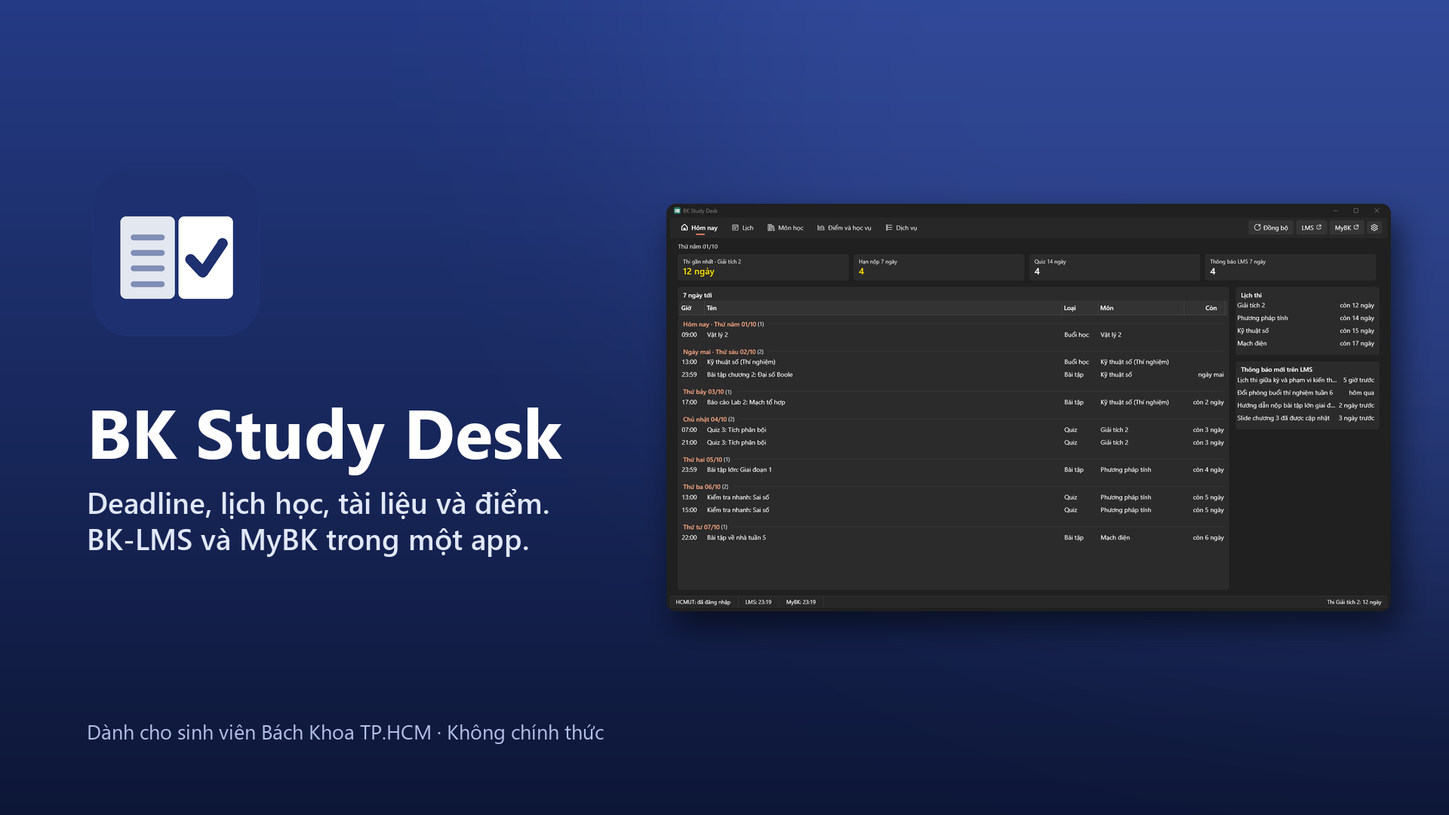
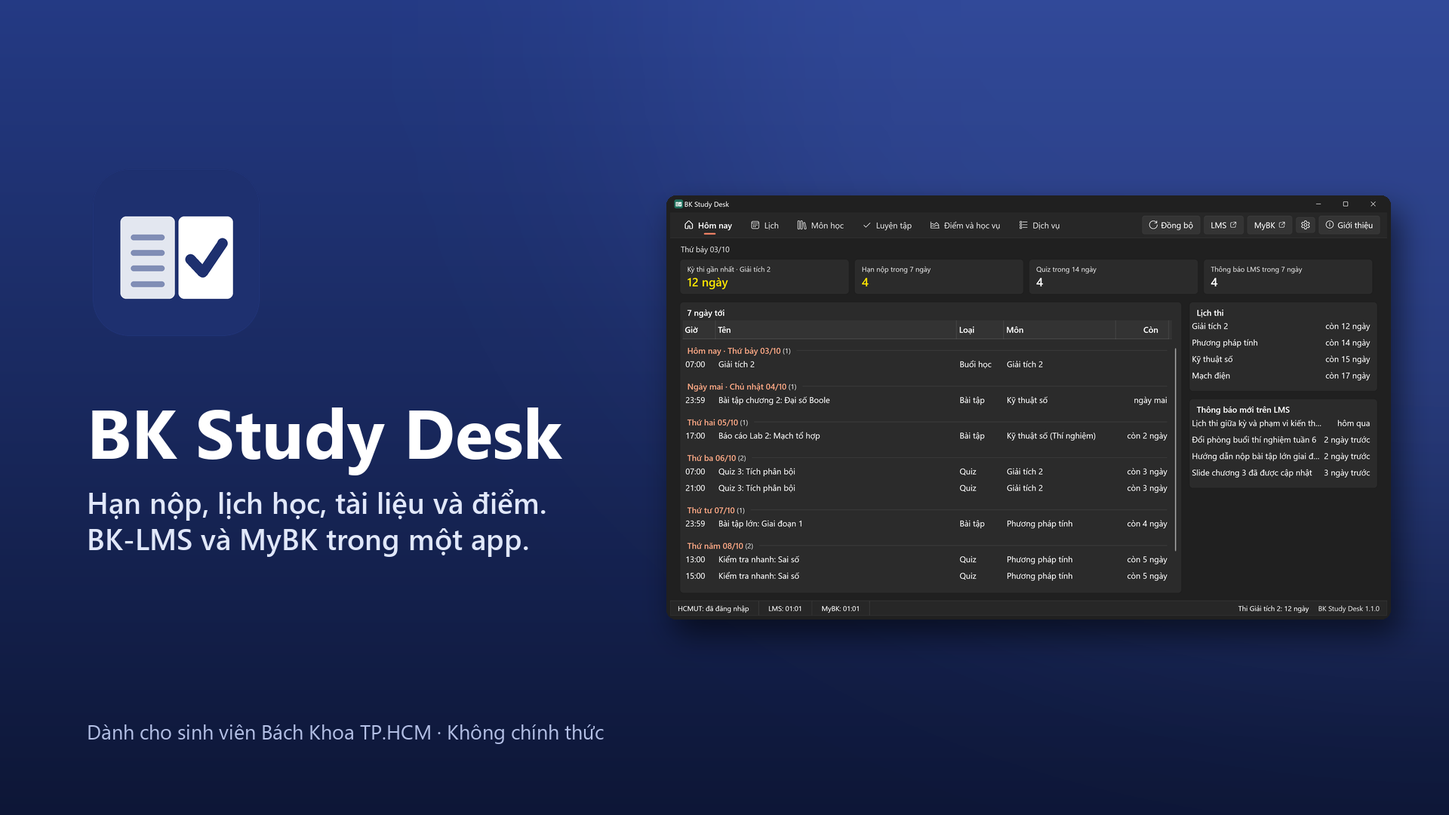
docs: cài từ Microsoft Store, ảnh mới, chữ theo chuẩn văn phong

diff --git a/src/ui/src/pages/Soan.svelte b/src/ui/src/pages/Soan.svelte
@@ -328,7 +328,7 @@
 					bind:value={raw}
 					oninput={() => (rawImages = {})}
 					rows={8}
-					placeholder={'Dán khối Markdown AI trả về, hoặc nội dung file…\n\n### Câu 1\nĐề bài\n- [x] đúng\n- [ ] sai\n> lời giải'}
+					placeholder={'Dán khối Markdown AI trả về hoặc nội dung file…\n\n### Câu 1\nĐề bài\n- [x] đúng\n- [ ] sai\n> lời giải'}
 					class="font-mono text-xs"
 				/>
 				<div class="flex gap-2">
@@ -446,8 +446,8 @@
 				<ol class="list-decimal pl-5">
 					<li>Sao chép prompt, dán vào ChatGPT / Claude / Gemini{mode === 'soan' ? ', kèm slide hoặc đề (PDF, ảnh)' : ''}.</li>
 					{#if mode === 'giai-thich'}<li>Đọc lời giải thích của AI.</li>{:else}<li>
-							AI trả về một khối Markdown: copy hết, sang tab <a class="underline" href={`#soan/nhap/${scopePath(scope)}`}>Nhập</a>, dán vào
-							rồi chọn Nhập. Có lỗi thì dán lỗi lại cho AI sửa.
+							AI trả về một khối Markdown: sao chép hết, sang tab <a class="underline" href={`#soan/nhap/${scopePath(scope)}`}>Nhập</a>, dán
+							vào rồi chọn Nhập. Có lỗi thì dán lỗi lại cho AI sửa.
 						</li>{/if}
 				</ol>
 				{#if mode === 'soan' || mode === 'tuong-tu'}

diff --git a/src/ui/src/pages/Practice.svelte b/src/ui/src/pages/Practice.svelte
@@ -122,7 +122,7 @@
 				{ label: 'Quiz LMS đã lưu', value: Study.quizInfo.length, note: 'kho quiz', href: '#kho-quiz' },
 			]}
 		/>
-		<Panel title="Các môn">
+		<Panel title="Môn học">
 			{#each Study.manifest.courses as c (c.id)}
 				{@const s = Progress.courseStats(c.id)}
 				<DataRow
@@ -160,7 +160,7 @@
 					menu={x.pack ? () => [{ label: 'Gỡ quiz này', run: () => removePack(x.pack!.id, x.pack!.title) }] : undefined}
 				/>
 			{:else}
-				<DataRow title="Chưa có" sub="Soạn quiz của bạn, hoặc Nhập file… (.md, .zip, .json)" dim />
+				<DataRow title="Chưa có" sub="Soạn quiz của bạn hoặc Nhập file… (.md, .zip, .json)" dim />
 			{/each}
 		</Panel>
 		<input bind:this={picker} type="file" accept=".md,.zip,.json" class="hidden" onchange={importFile} />

diff --git a/src/ui/src/pages/QuizArchive.svelte b/src/ui/src/pages/QuizArchive.svelte
@@ -28,7 +28,7 @@
 			? on
 				? 'Đã bật: quiz nộp xong sẽ được lưu ở lần đồng bộ LMS tới.'
 				: 'Đã tắt: app không lưu quiz mới. Quiz đã lưu vẫn giữ.'
-			: 'Không đổi được cài đặt.';
+			: 'Không đổi được cài đặt. Thử lại.';
 	}
 	const groups = $derived.by(() => {
 		const m = new Map<string, QuizInfo[]>();

diff --git a/PRIVACY.md b/PRIVACY.md
@@ -13,7 +13,7 @@ App chỉ kết nối tới các trang của HCMUT mà bạn vốn dùng:
 - `lms.hcmut.edu.vn`: BK-LMS;
 - `mybk.hcmut.edu.vn`: MyBK;
 - các dịch vụ khác của trường mà bạn tự mở;
-- `github.com` / `api.github.com`: **chỉ khi bạn cho phép** kiểm tra bản mới (Cài đặt → Cập nhật; mặc định chưa kiểm tra cho tới khi bạn chọn). App chỉ hỏi phiên bản mới nhất và tải gói cập nhật, không gửi thông tin tài khoản. Như mọi kết nối mạng, GitHub (máy chủ ở Mỹ) thấy địa chỉ IP của bạn, theo [chính sách của GitHub](https://docs.github.com/site-policy/privacy-policies/github-general-privacy-statement). Chọn "Không kiểm tra" thì app không gọi tới GitHub.
+- `github.com` / `api.github.com`: **chỉ khi bạn cho phép** kiểm tra bản mới (**Cài đặt** → **Cập nhật**; mặc định chưa kiểm tra cho tới khi bạn chọn). App chỉ hỏi phiên bản mới nhất và tải gói cập nhật, không gửi thông tin tài khoản. Như mọi kết nối mạng, GitHub (máy chủ ở Mỹ) thấy địa chỉ IP của bạn, theo [chính sách của GitHub](https://docs.github.com/site-policy/privacy-policies/github-general-privacy-statement). Chọn **Không kiểm tra** thì app không gọi tới GitHub.
 
 ## Dữ liệu lưu trên máy bạn
 
@@ -22,7 +22,7 @@ Sau khi bạn đăng nhập, app tải xuống và lưu **trên máy của bạn
 - tài liệu môn học bạn chọn tải (mặc định app không tự tải);
 - điểm, tiến độ chương trình đào tạo;
 - họ tên, MSSV, lớp (để hiển thị);
-- bản xem lại các quiz LMS **bạn đã nộp** (để ôn lại, tắt được trong Cài đặt; không đọc quiz đang làm);
+- bản xem lại quiz LMS **bạn đã nộp** (để ôn lại, tắt được trong Cài đặt; không đọc quiz đang làm);
 - quiz bạn tự soạn hoặc nhập, kết quả luyện tập, ghi chú.
 
 Những dữ liệu này nằm trong `%LOCALAPPDATA%\BKStudyDesk.Data`, dù bạn cài app vào thư mục nào. Lúc gỡ app bạn chọn xóa hay giữ.
@@ -31,7 +31,7 @@ Tài liệu môn học lưu ở thư mục bạn chọn, mặc định `Document
 
 App **không lưu** số CCCD, địa chỉ, số điện thoại, ngày sinh hay email cá nhân, kể cả khi MyBK trả về.
 
-App ghi nhật ký hoạt động vào `datapp.log` trên máy (tối đa khoảng 4 MB, tự xoay vòng) để bạn gửi kèm khi báo lỗi. Token, cookie, vé đăng nhập và email được che trước khi ghi; log có thể có tên môn, tên file, giờ đồng bộ. Bạn mở file này được ở **Cài đặt → Nhật ký hoạt động**.
+App ghi nhật ký hoạt động vào `data\app.log` trên máy (tối đa khoảng 4 MB, tự xoay vòng) để bạn gửi kèm khi báo lỗi. Token, cookie, vé đăng nhập và email được che trước khi ghi; log có thể có tên môn, tên file, giờ đồng bộ. Bạn mở file này được ở **Cài đặt** → **Nhật ký hoạt động**.
 
 **Thời gian lưu:** dữ liệu trên nằm trên máy tới khi bạn xóa (xem mục Xóa dữ liệu). Bản mới đồng bộ ghi đè bản cũ; app không gửi bản sao đi đâu.
 
@@ -51,20 +51,20 @@ Theo Điều 4 Luật 91/2025, bạn có quyền biết, xem, sửa, xóa dữ l
 
 ## Dữ liệu của người khác
 
-Dữ liệu tải về có thể có thông tin của người khác (tên giảng viên, bài đăng của bạn học trên diễn đàn LMS). Chỉ dùng cho việc học của bạn; không đăng lại, chia sẻ hay đưa vào quiz chia sẻ công khai (Điều 4 và Điều 7 Luật 91/2025). Quiz LMS đã lưu chỉ chia sẻ được sau khi quiz đóng và không kèm tên, MSSV.
+Dữ liệu tải xuống có thể có thông tin của người khác (tên giảng viên, bài đăng của bạn học trên diễn đàn LMS). Chỉ dùng cho việc học của bạn; không đăng lại, chia sẻ hay đưa vào quiz chia sẻ công khai (Điều 4 và Điều 7 Luật 91/2025). Quiz LMS đã lưu chỉ chia sẻ được sau khi quiz đóng và không kèm tên, MSSV.
 
 ## Đăng nhập và bảo mật
 
-- Mật khẩu chỉ được gõ trên trang SSO của trường, trong trình duyệt nhúng (WebView2). App không đọc mật khẩu. Nếu bạn chọn Lưu khi cửa sổ đăng nhập hỏi, WebView2 lưu mật khẩu (mã hóa trên máy) để tự điền lần sau.
+- Mật khẩu chỉ được gõ trên trang SSO của trường, trong trình duyệt nhúng (WebView2). App không đọc mật khẩu. Nếu bạn chọn **Lưu** khi cửa sổ đăng nhập hỏi, WebView2 lưu mật khẩu (mã hóa trên máy) để tự điền lần sau.
 - Cookie đăng nhập nằm trong profile WebView2, do WebView2 mã hóa.
 - Token BK-LMS được mã hóa bằng Windows DPAPI, chỉ tài khoản Windows của bạn giải mã được.
 - App chỉ **đọc** dữ liệu. App không nộp bài, không đăng ký hay hủy môn, không thanh toán, không làm quiz thay bạn.
 
 ## Xóa dữ liệu
 
-- Trong app: **Cài đặt → Đăng xuất** xóa token và cookie đăng nhập. Dữ liệu đã đồng bộ (lịch, điểm…) vẫn giữ để xem khi không có mạng.
+- Trong app: **Cài đặt** → **Đăng xuất** xóa token và cookie đăng nhập. Dữ liệu đã đồng bộ (lịch, điểm…) vẫn giữ để xem khi không có mạng.
 - Xóa hết dữ liệu app: thoát app rồi xóa thư mục `%LOCALAPPDATA%\BKStudyDesk.Data`, hoặc gỡ app như dưới.
-- Gỡ app: Cài đặt Windows → Ứng dụng → BK Study Desk → Gỡ cài đặt, tích "Xóa cả dữ liệu của app". Tài liệu đã tải trong thư mục bạn chọn vẫn còn, bạn tự xóa nếu muốn.
+- Gỡ app: Cài đặt Windows → Ứng dụng → BK Study Desk → Gỡ cài đặt, chọn ô **Xóa cả dữ liệu của app**. Tài liệu đã tải trong thư mục bạn chọn vẫn còn, bạn tự xóa nếu muốn.
 
 ## Liên hệ
 
@@ -81,7 +81,7 @@ BK Study Desk is an unofficial app made by an individual developer (xeroz369) fo
 - **Not stored:** ID card number, address, phone number, date of birth or personal email.
 - **Sign-in:** your password is typed only on the university SSO page and the app never reads it. If you choose Save when the sign-in window asks, WebView2 stores it encrypted on this PC for autofill. Cookies are encrypted by WebView2, and the LMS token is encrypted with Windows DPAPI.
 - **Read-only:** the app never submits, registers, pays or takes quizzes for you.
-- **Log:** activity log in `datapp.log` on your PC (about 4 MB max, rotated) for bug reports; tokens, cookies, sign-in tickets and emails are masked.
+- **Log:** activity log in `data\app.log` on your PC (about 4 MB max, rotated) for bug reports; tokens, cookies, sign-in tickets and emails are masked.
 - **Retention:** data stays on your PC until you delete it. Newer syncs overwrite older data.
 - **Roles and law:** applicable law is Vietnam's Personal Data Protection Law No. 91/2025/QH15 and Decree 356/2025/ND-CP (in force since 1 Jan 2026). HCMUT holds the source data; you use the app to view your own data on your own PC; the developer receives no data and, in the author's reading (not confirmed by any authority), is neither a controller nor a processor under Article 2.
 - **Your rights:** view everything in the app or the JSON files in `%LOCALAPPDATA%\BKStudyDesk.Data`; correct source data with the university; delete as below.

diff --git a/CHANGELOG.md b/CHANGELOG.md
@@ -4,6 +4,16 @@ Ghi các thay đổi đáng chú ý của BK Study Desk. Định dạng theo [Ke
 
 ## [Chưa phát hành]
 
+### Thay đổi
+
+- Chữ trên giao diện và tài liệu theo chuẩn văn phong `docs/van-phong.md`: "Sao chép" thay "Copy", "Chọn" thay "Bấm", "tải xuống" thay "tải về"; câu lỗi nói rõ cần làm gì.
+- Trang Luyện tập: mục "Các môn" đổi tên thành "Môn học".
+
+### Thêm
+
+- README và Wiki: hướng dẫn cài từ Microsoft Store, lưu ý kiểm tra số phiên bản vì bản Store phải chờ Microsoft duyệt.
+- Ảnh minh họa mới (dữ liệu demo) cho README, Wiki và trang Store.
+
 ## [1.1.0] - 2026-10-03
 
 ### Thêm
@@ -13,15 +23,15 @@ Ghi các thay đổi đáng chú ý của BK Study Desk. Định dạng theo [Ke
 - Thanh báo lỗi theo kiểu InfoBar của Windows: biểu tượng theo mức độ, câu dễ hiểu kèm cách xử lý, mục **Chi tiết** chứa chữ gốc của máy chủ (có nút **Sao chép**). Thanh trạng thái có biểu tượng lỗi cạnh LMS/MyBK.
 - Cửa sổ LMS/MyBK báo khi trang tải quá 10 giây, mất mạng, máy chủ lỗi hoặc phiên đăng nhập đã hết, kèm nút **Thử lại**.
 - Giữ phiên đăng nhập khi app đang mở: mỗi 60 phút ghé SSO một lần (tắt được trong Cài đặt). Phiên SSO của trường vẫn hết sau tối đa 8 giờ kể từ lúc đăng nhập.
-- **Cài đặt → Nhật ký hoạt động**: nút mở file log; bật ghi log chẩn đoán khi cần báo lỗi (tự tắt sau 7 ngày).
+- **Cài đặt** → **Nhật ký hoạt động**: nút mở file log; bật ghi log chẩn đoán khi cần báo lỗi (tự tắt sau 7 ngày).
 
 ### Thay đổi
 
-- Mặc định chỉ đọc môn của học kỳ này và không tự tải tài liệu. Muốn tải thì vào **Môn học** → **Tải tài liệu…** và chọn mục cần tải; bật lại tự tải trong Cài đặt nếu muốn.
+- Mặc định chỉ đọc môn của học kỳ này và không tự tải tài liệu. Muốn tải thì vào **Môn học**** → ****Tải tài liệu…** và chọn mục cần tải; bật lại tự tải trong Cài đặt nếu muốn.
 - Lần đầu đăng nhập, lịch, hạn nộp, quiz và điểm hiện ngay, không chờ tải tài liệu.
 - Đọc ít request hơn: thông báo diễn đàn chỉ lấy lớp học kỳ này; quiz không có hạn đóng chỉ kiểm tra ngày một lần; trang Môn học chỉ quét thư mục khi đang mở.
 - Giãn cách request tới LMS và MyBK. Máy chủ báo quá tải (HTTP 429/503) thì app chờ theo `Retry-After` rồi mới thử lại.
-- "Giữ đăng nhập khi tắt rồi mở lại app" giờ giữ tối đa 8 giờ, bằng giới hạn phiên của máy chủ trường (trước đây ghi 30 ngày nhưng máy chủ đã hủy phiên từ lâu).
+- **Giữ đăng nhập khi tắt rồi mở lại app** giờ giữ tối đa 8 giờ, bằng giới hạn phiên của máy chủ trường (trước đây ghi 30 ngày nhưng máy chủ đã hủy phiên từ lâu).
 - `data\config.json` chỉ lưu những gì bạn đổi so với mặc định.
 - Trang trống vì chưa có dữ liệu thì ghi rõ đang tải lần đầu, bị lỗi hay chưa đăng nhập.
 
@@ -32,7 +42,7 @@ Ghi các thay đổi đáng chú ý của BK Study Desk. Định dạng theo [Ke
 - Đồng bộ báo "Access denied" khi giao diện đang đọc dữ liệu đúng lúc đồng bộ ghi lại.
 - Cuộn chuột bị kẹt khi đi qua ô nhập hoặc bảng; tiêu đề cột "Điểm chữ", "Thang điểm" bị cắt; ngày và số ngày công tác xã hội sai định dạng.
 - Cửa sổ chính và cửa sổ đăng nhập tràn ra ngoài màn hình nhỏ.
-- Nút Cài đặt và Giới thiệu không phản hồi khi dùng trình đọc màn hình.
+- Nút **Cài đặt** và **Giới thiệu** không phản hồi khi dùng trình đọc màn hình.
 
 ### Bỏ
 
@@ -49,7 +59,7 @@ Ghi các thay đổi đáng chú ý của BK Study Desk. Định dạng theo [Ke
 ### Thêm
 
 - Bộ cài tiếng Việt: chọn thư mục cài, không cần quyền admin. Bộ gỡ hỏi giữ hay xóa dữ liệu app.
-- Tự cập nhật theo lựa chọn của bạn: báo khi có bản mới, tự cài khi tắt app, hoặc không kiểm tra.
+- Tự cập nhật theo lựa chọn của bạn: báo khi có bản mới, tự cài khi tắt app hoặc không kiểm tra.
 - Luyện tập: soạn quiz, nhờ AI soạn, nhập/xuất Markdown, ôn quiz LMS đã nộp, thi thử.
 - Lấy dữ liệu từ bản zip cũ trong Cài đặt.
 
@@ -64,7 +74,7 @@ Ghi các thay đổi đáng chú ý của BK Study Desk. Định dạng theo [Ke
 
 ### Bảo mật
 
-- Vá một số lỗi bảo mật nhỏ (giới hạn điều hướng của WebView ẩn, không chạy file tải về, giới hạn kích thước file).
+- Vá một số lỗi bảo mật nhỏ (giới hạn điều hướng của WebView ẩn, không chạy file tải xuống, giới hạn kích thước file).
 
 Các bản trước: xem [Releases](https://github.com/xeroz369/bk-study-desk/releases).
 

diff --git a/wiki/Cài-đặt.md b/wiki/Cài-đặt.md
@@ -6,10 +6,12 @@
 
 Mở [BK Study Desk trên Microsoft Store](https://apps.microsoft.com/detail/9NX0KRZRR850), chọn **Tải**. Gói do Microsoft ký nên không có cảnh báo SmartScreen; Store tự cập nhật app. Bản Store chỉ có gói x64 (máy ARM vẫn chạy được qua giả lập của Windows).
 
+**Kiểm tra số phiên bản trước khi cài.** Mỗi bản mới phải chờ Microsoft duyệt (thường vài giờ, có khi tới 3 ngày làm việc), nên bản trên Store có thể chậm hơn bản mới nhất trên GitHub. So số phiên bản ở trang Store với [Releases](https://github.com/xeroz369/bk-study-desk/releases/latest); cần bản mới ngay thì dùng bộ cài GitHub.
+
 ## Cách 2: bộ cài trên GitHub
 
 1. Vào [Releases](https://github.com/xeroz369/bk-study-desk/releases), tải `BKStudyDesk-x.y.z-Setup-x64.exe`. Máy chip ARM (Surface Pro X, Snapdragon) tải bản `-Setup-arm64.exe`.
-2. Mở file. Nếu Windows hiện **"Windows đã bảo vệ máy tính của bạn"**: chọn **Thông tin thêm** → **Vẫn chạy**. Cảnh báo này có vì bộ cài chưa có chữ ký số; chỉ hiện một lần lúc cài.
+2. Mở file. Nếu Windows hiện **"Windows đã bảo vệ máy tính của bạn"**: chọn **Thông tin thêm**** → ****Vẫn chạy**. Cảnh báo này có vì bộ cài chưa có chữ ký số; chỉ hiện một lần lúc cài.
 3. Chọn thư mục cài (mặc định trong tài khoản của bạn; đổi sang ổ D: được), chọn **Cài đặt**. Không cần quyền admin.
 4. Cài xong app tự mở. Lối tắt có ở Desktop và Start menu.
 
@@ -25,7 +27,7 @@ Hai cách cài là hai bản riêng, dữ liệu không dùng chung. Chỉ nên 
 
 ## Đang dùng bản zip cũ?
 
-Cài bản mới, rồi vào **Cài đặt → Cập nhật → Lấy dữ liệu từ bản zip…**, chọn thư mục bản zip. App chép đăng nhập LMS, kết quả luyện tập, quiz và cài đặt sang, rồi khởi động lại. Sau đó đăng nhập HCMUT lại một lần. Xong thì xóa thư mục bản zip được.
+Cài bản mới, rồi vào **Cài đặt** → **Cập nhật** → **Lấy dữ liệu từ bản zip…**, chọn thư mục bản zip. App chép đăng nhập LMS, kết quả luyện tập, quiz và cài đặt sang, rồi khởi động lại. Sau đó đăng nhập HCMUT lại một lần. Xong thì xóa thư mục bản zip được.
 
 ## Kiểm tra file tải xuống (không bắt buộc)
 

diff --git a/wiki/Câu-hỏi-thường-gặp.md b/wiki/Câu-hỏi-thường-gặp.md
@@ -1,7 +1,7 @@
 # Câu hỏi thường gặp
 
 **Windows báo "Windows đã bảo vệ máy tính của bạn".**
-Bộ cài trên GitHub chưa có chữ ký số (chứng chỉ tốn phí hằng năm). Cài từ [Microsoft Store](https://apps.microsoft.com/detail/9NX0KRZRR850) thì không có cảnh báo này. Dùng bộ cài GitHub thì chọn **Thông tin thêm → Vẫn chạy**. Chỉ hiện một lần lúc cài; cập nhật sau không bị hỏi lại. Muốn chắc file không bị sửa, so mã SHA-256 như ở [[Cài đặt]].
+Bộ cài trên GitHub chưa có chữ ký số (chứng chỉ tốn phí hằng năm). Cài từ [Microsoft Store](https://apps.microsoft.com/detail/9NX0KRZRR850) thì không có cảnh báo này. Dùng bộ cài GitHub thì chọn **Thông tin thêm** → **Vẫn chạy**. Chỉ hiện một lần lúc cài; cập nhật sau không bị hỏi lại. Muốn chắc file không bị sửa, so mã SHA-256 như ở [[Cài đặt]].
 
 **Mở LMS/MyBK trong app thấy "session timed out" hay bắt đăng nhập lại.**
 Phiên đăng nhập trên server trường hết hạn sau vài giờ, dù app vẫn nhớ. App tự đi qua trang đăng nhập SSO; nếu SSO cũng hết phiên thì bạn đăng nhập lại một lần.
@@ -13,7 +13,7 @@ Phiên đăng nhập trên server trường hết hạn sau vài giờ, dù app 
 Không. App chỉ gọi API **đọc**. Không nộp bài, không đăng ký/hủy môn, không thanh toán, không làm quiz thay bạn.
 
 **App có gửi dữ liệu của tôi đi đâu không?**
-Không có server riêng, không analytics. App chỉ nói chuyện với server của trường, và với GitHub để hỏi bản mới nếu bạn cho phép. Xem [[Bảo mật và quyền riêng tư]].
+Không có server riêng, không analytics. App chỉ nói chuyện với server của trường và với GitHub để hỏi bản mới nếu bạn cho phép. Xem [[Bảo mật và quyền riêng tư]].
 
 **Có bản cho macOS, Linux không?**
 Chưa. Bản đa nền tảng đang làm; khi ổn định sẽ có ở trang Releases.

diff --git a/wiki/Cập-nhật.md b/wiki/Cập-nhật.md
@@ -1,6 +1,6 @@
 # Cập nhật
 
-**Cài từ Microsoft Store:** Store tự cập nhật app, không cần chỉnh gì trong app. Phần dưới dành cho bản cài từ GitHub.
+**Cài từ Microsoft Store:** Store tự cập nhật app, không cần chỉnh gì trong app. Bản mới lên Store sau khi Microsoft duyệt (thường vài giờ, có khi tới 3 ngày làm việc), nên có thể chậm hơn bản trên GitHub một chút. Phần dưới dành cho bản cài từ GitHub.
 
 Lần mở đầu, app hỏi bạn muốn làm gì khi có bản mới. **Chưa chọn thì app không gọi mạng để kiểm tra.**
 
@@ -8,9 +8,9 @@ Lần mở đầu, app hỏi bạn muốn làm gì khi có bản mới. **Chưa 
 |---|---|
 | **Báo khi có bản mới** (khuyên dùng) | Mỗi ngày hỏi GitHub một lần. Có bản mới thì báo ở thanh dưới cùng; bạn chọn mới tải và cài. |
 | **Tự tải và cài khi tắt app** | Tải trong nền (hoãn nếu đang bật Tiết kiệm pin), cài lúc bạn thoát hẳn app. |
-| **Không kiểm tra** | Không bao giờ hỏi GitHub. Muốn cập nhật thì vào **Cài đặt → Cập nhật → Kiểm tra cập nhật**. |
+| **Không kiểm tra** | Không bao giờ hỏi GitHub. Muốn cập nhật thì vào **Cài đặt** → **Cập nhật** → **Kiểm tra cập nhật**. |
 
-- Đổi chế độ ở **Cài đặt → Cập nhật**.
+- Đổi chế độ ở **Cài đặt** → **Cập nhật**.
 - App **không bao giờ tự khởi động lại** khi bạn đang dùng.
 - Gói cập nhật chỉ chứa phần thay đổi (thường vài trăm KB) và được kiểm SHA-256 trước khi cài. Gói hỏng thì app giữ bản đang chạy.
 - Cài không thành thì lần mở sau thanh dưới cùng báo "Chưa cập nhật được lên bản …"; chọn để thử lại.

diff --git a/SECURITY.md b/SECURITY.md
@@ -13,11 +13,11 @@ Mình sẽ phản hồi trong vòng 7 ngày, sửa ở bản kế tiếp và ghi
 
 ## Phiên bản được hỗ trợ
 
-Chỉ bản mới nhất ở trang [Releases](https://github.com/xeroz369/bk-study-desk/releases) được sửa lỗi bảo mật. Bật cập nhật trong **Cài đặt → Cập nhật** để luôn ở bản mới.
+Chỉ bản mới nhất ở trang [Releases](https://github.com/xeroz369/bk-study-desk/releases) được sửa lỗi bảo mật. Bật cập nhật trong **Cài đặt** → **Cập nhật** để luôn ở bản mới.
 
 ## App bảo vệ bạn thế nào
 
-- Mật khẩu chỉ gõ trên trang SSO của trường; app không đọc. Chọn Lưu khi được hỏi thì WebView2 lưu mã hóa trên máy để tự điền.
+- Mật khẩu chỉ gõ trên trang SSO của trường; app không đọc. Chọn **Lưu** khi được hỏi thì WebView2 lưu mã hóa trên máy để tự điền.
 - Token LMS mã hóa bằng Windows DPAPI; dữ liệu nằm trong `%LOCALAPPDATA%`, chỉ tài khoản Windows của bạn (cùng SYSTEM và Administrators) mở được.
 - App chỉ gọi API **đọc**; không nộp bài, đăng ký, hủy hay thanh toán.
 - Gói cập nhật được kiểm SHA-256 trước khi cài; nguồn cập nhật chỉ nhận repo GitHub qua https (thư mục trên máy chỉ dùng ở bản cài thử).

diff --git a/studypack/README.md b/studypack/README.md
@@ -1,15 +1,15 @@
 # studypack: quiz tự soạn
 
-Soạn quiz để tự ôn và gửi cho bạn bè: gõ trong app, nhờ AI, hoặc đổi qua lại với Moodle (BK-LMS).
+Soạn quiz để tự ôn và gửi cho bạn bè: gõ trong app, nhờ AI hoặc đổi qua lại với Moodle (BK-LMS).
 
 | File | Dùng để |
 |---|---|
 | [Wiki: Luyện tập](https://github.com/xeroz369/bk-study-desk/wiki/Luyện-tập) | **Bắt đầu ở đây**: hướng dẫn từng bước, có ảnh, không cần biết lập trình |
 | [SPEC.md](SPEC.md) | Đặc tả đầy đủ của Study Markdown (dạng chính) và JSON, cho người viết công cụ |
-| [PROMPT.md](PROMPT.md) | Prompt cho AI (app soạn sẵn ở tab *Nhờ AI*) |
+| [PROMPT.md](PROMPT.md) | Prompt cho AI (app soạn sẵn ở tab **Nhờ AI**) |
 | `studypack-v1.schema.json` | JSON Schema của dạng JSON |
 | `validate.ts` | Kiểm tra file: `node studypack/validate.ts <file.md \| file.zip \| file.json>` |
-| `convert.ts` | Đổi JSON ↔ Markdown (`.md`, hoặc `.zip` khi có ảnh) |
+| `convert.ts` | Đổi JSON ↔ Markdown (`.md` hoặc `.zip` khi có ảnh) |
 | `test-roundtrip.ts` | Kiểm thử: gói mẫu đổi sang Markdown rồi đổi ngược lại vẫn phải giữ nguyên từng câu |
 | `examples/` | Quiz mẫu, bắt đầu từ `vi-du.md` |
 
